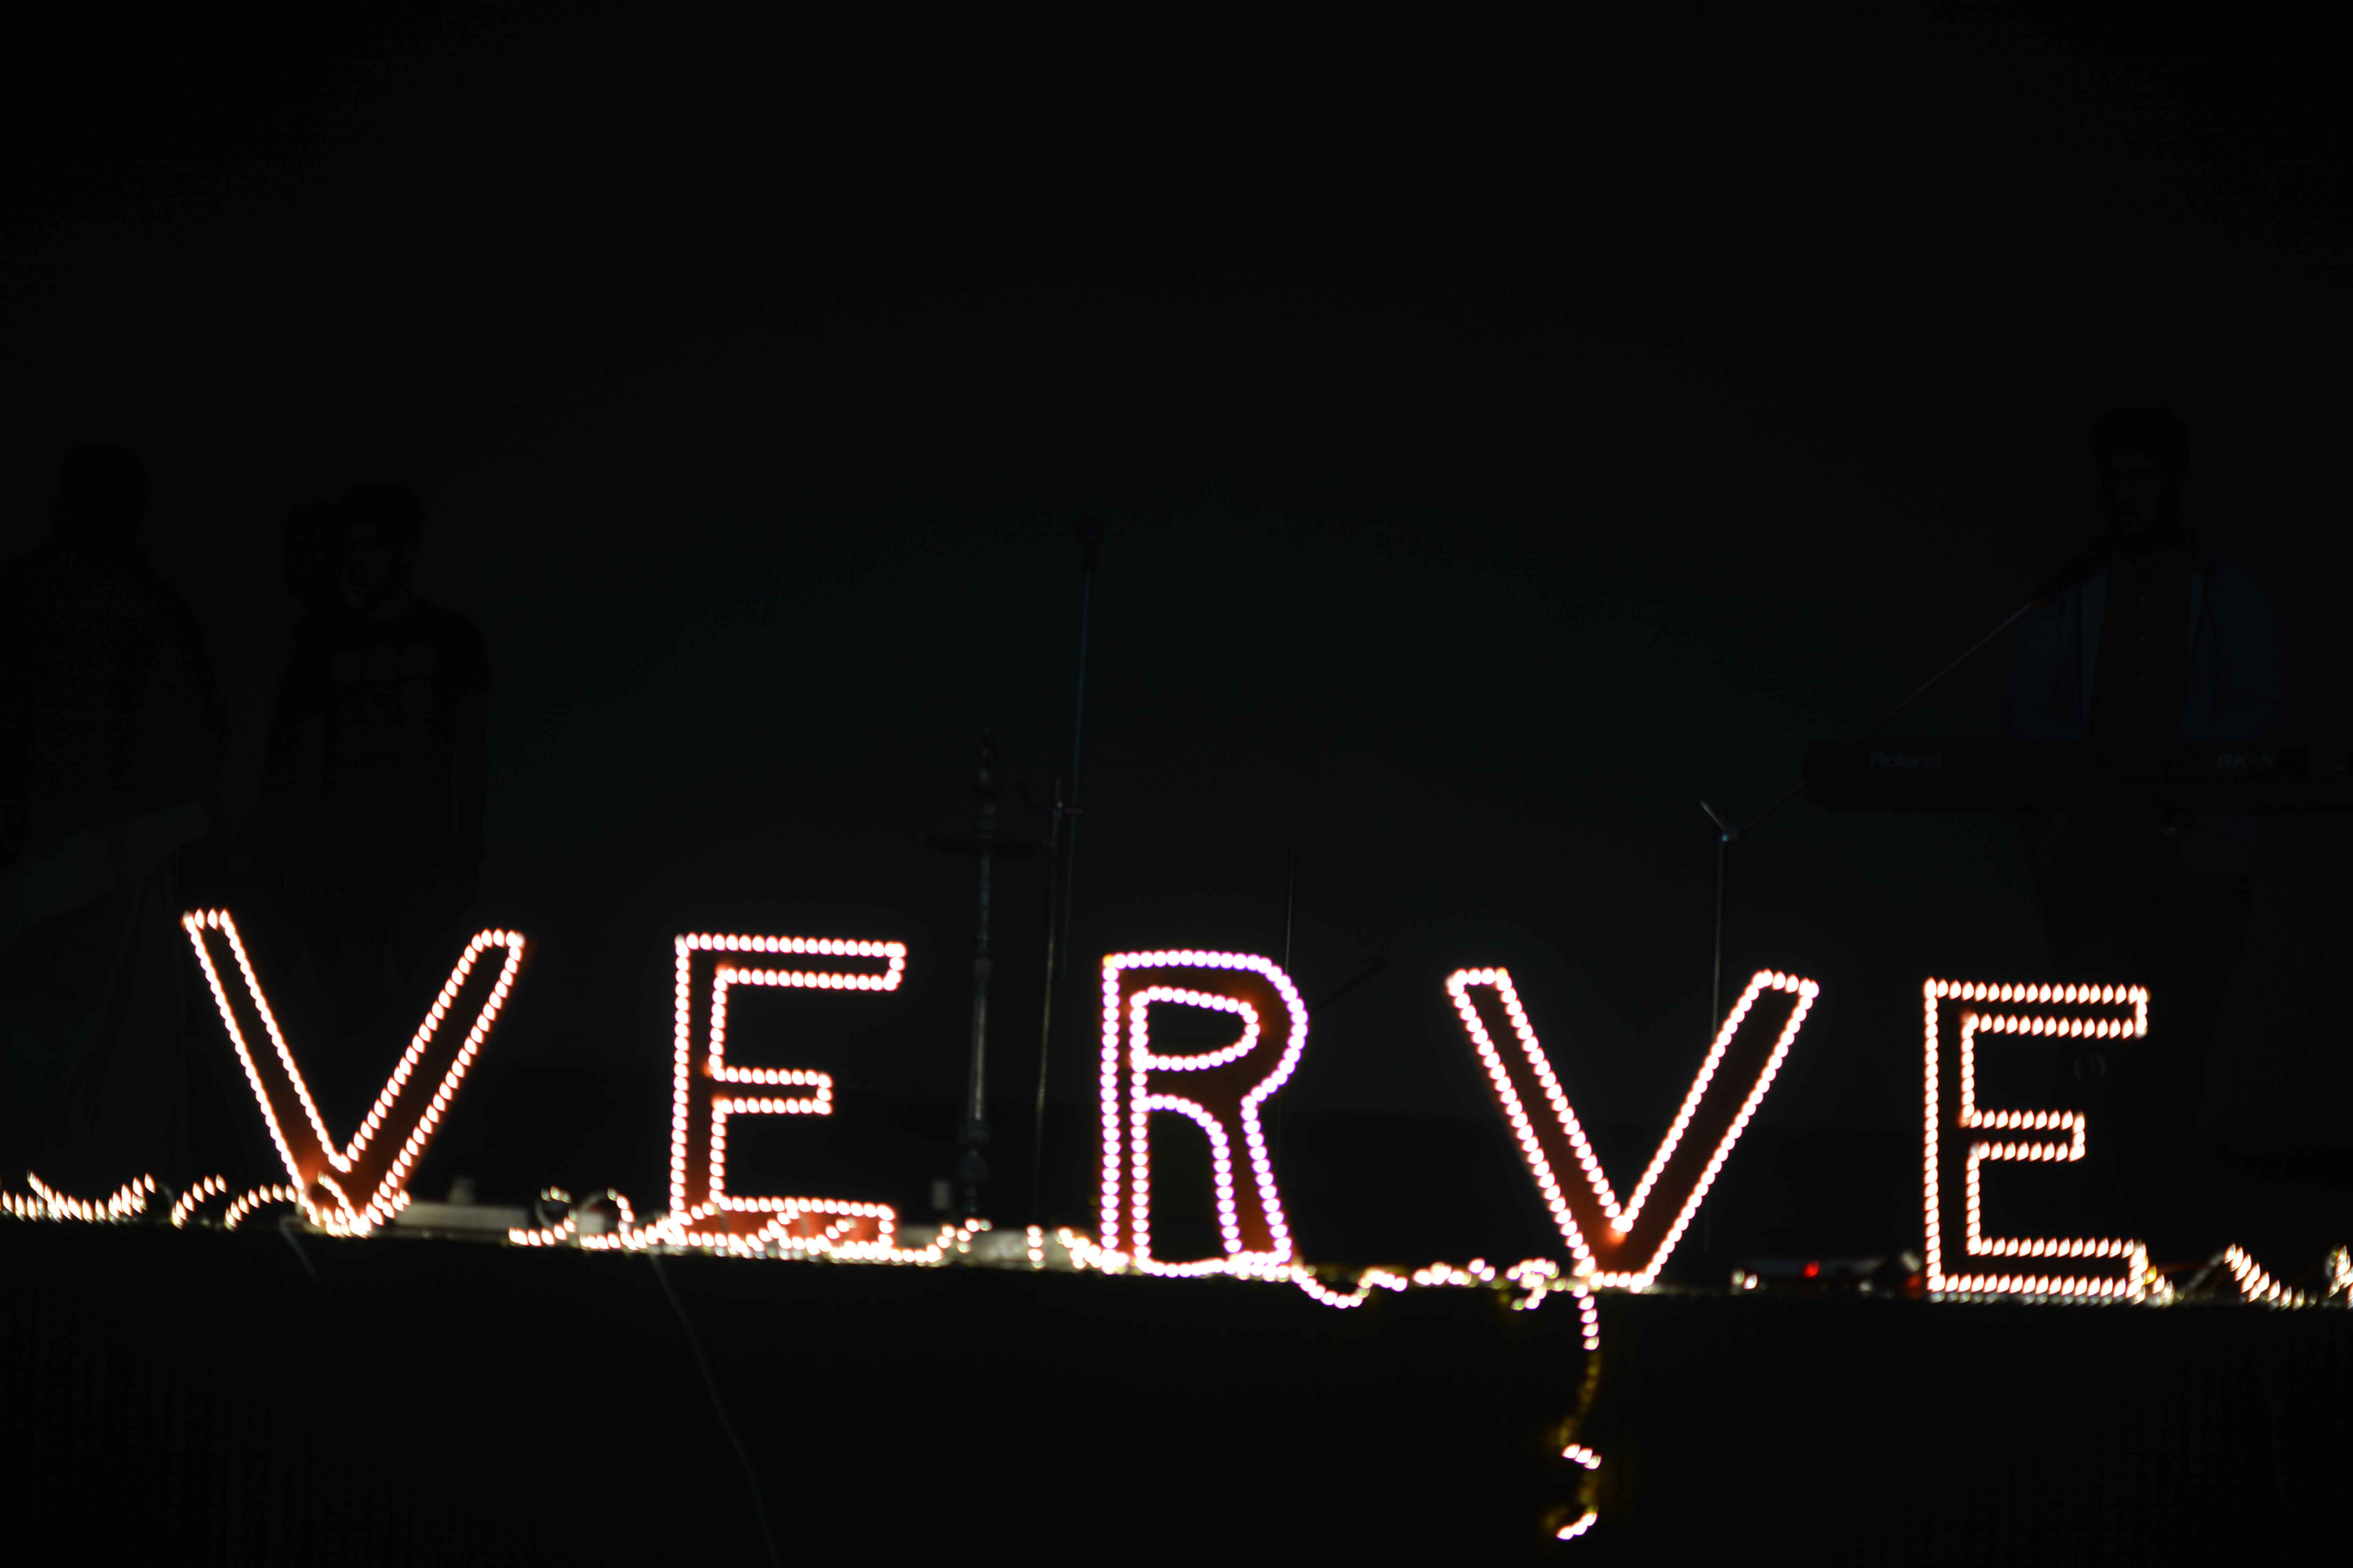
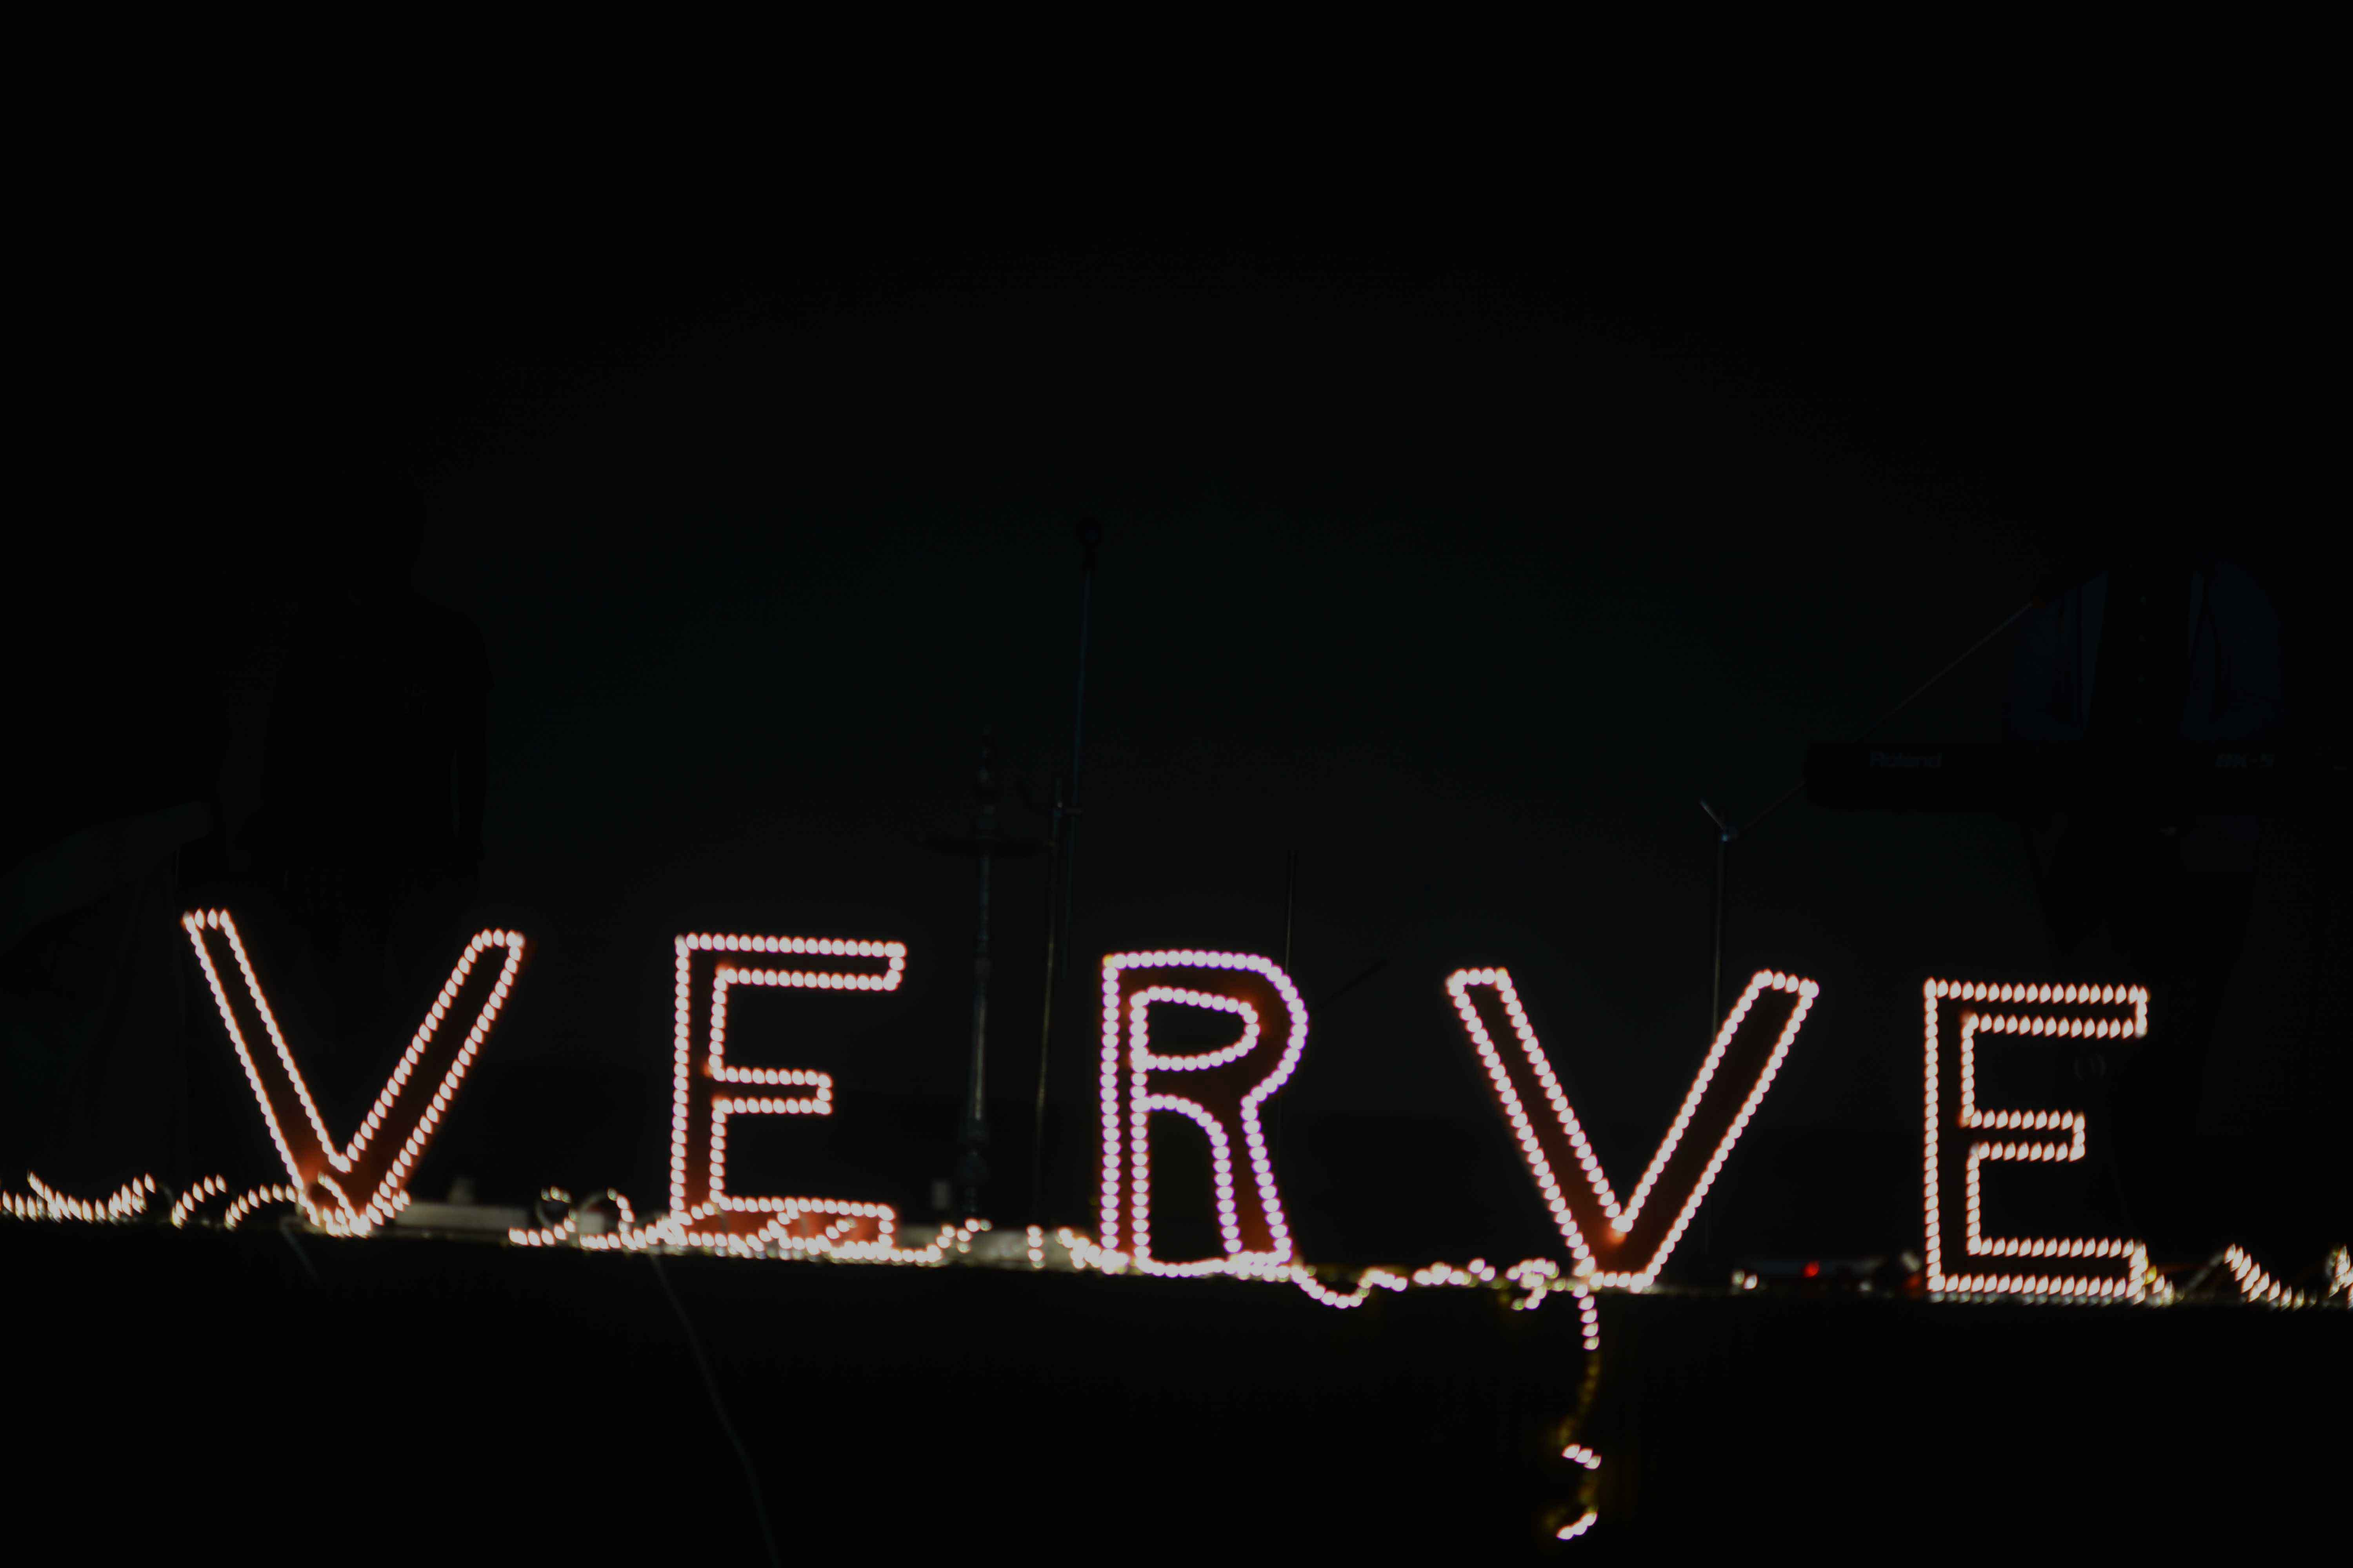
Changes to pics made

diff --git a/vervelandingpage/comingsoon_09/css/main.css b/vervelandingpage/comingsoon_09/css/main.css
@@ -1,9 +1,9 @@
 /*------------------------------------------------------------------
 Project:  ComingSoon
-Version:  
-Last change:  
+Version:
+Last change:
 Assigned to:  Bach Le
-Primary use:  
+Primary use:
 -------------------------------------------------------------------*/
 
 
@@ -13,22 +13,22 @@ Primary use:
 
 @font-face {
   font-family: Poppins-Regular;
-  src: url('../fonts/Poppins/Poppins-Regular.ttf'); 
+  src: url('../fonts/Poppins/Poppins-Regular.ttf');
 }
 
 @font-face {
   font-family: Poppins-Bold;
-  src: url('../fonts/Poppins/Poppins-Bold.ttf'); 
+  src: url('../fonts/Poppins/Poppins-Bold.ttf');
 }
 
 @font-face {
   font-family: Poppins-Thin;
-  src: url('../fonts/Poppins/Poppins-Thin.ttf'); 
+  src: url('../fonts/Poppins/Poppins-Thin.ttf');
 }
 
 @font-face {
   font-family: Poppins-Black;
-  src: url('../fonts/Poppins/Poppins-Black.ttf'); 
+  src: url('../fonts/Poppins/Poppins-Black.ttf');
 }
 
 
@@ -171,7 +171,7 @@ Primary use:
 
 
 /*==================================================================
-   WHERE WHERE WHERE WHERE WHERE WHERE WHERE WHERE WHERE WHERE WHERE  
+   WHERE WHERE WHERE WHERE WHERE WHERE WHERE WHERE WHERE WHERE WHERE
 ==================================================================*/
 .where1 {
   align-self: flex-start;
@@ -180,7 +180,7 @@ Primary use:
 
 
 /*==================================================================
- HOW HOW HOW HOW HOW HOW HOW HOW HOW HOW HOW HOW HOW HOW HOW HOW HOW 
+ HOW HOW HOW HOW HOW HOW HOW HOW HOW HOW HOW HOW HOW HOW HOW HOW HOW
 ==================================================================*/
 .placeholder0::-webkit-input-placeholder { color: #999999;}
 .placeholder0:-moz-placeholder { color: #999999;}
@@ -207,7 +207,7 @@ Primary use:
   background: -o-linear-gradient(bottom, #b224ef, #7579ff);
   background: -moz-linear-gradient(bottom, #b224ef, #7579ff);
   background: linear-gradient(bottom, #b224ef, #7579ff);
-  opacity: 0.3;
+  opacity: 0.1;
 }
 
 .overlay1::after {
@@ -391,7 +391,7 @@ Primary use:
   .respon1 {
     font-size: 45px;
   }
-  
+
 }
 
 

diff --git a/vervelandingpage/comingsoon_09/index.html b/vervelandingpage/comingsoon_09/index.html
@@ -25,7 +25,7 @@
 	<div class="simpleslide100">
 		<div class="simpleslide100-item bg-img1" style="background-image: url('images/bg1.jpg');"></div>
 		<div class="simpleslide100-item bg-img1" style="background-image: url('images/bg2.jpg');"></div>
-		<div class="simpleslide100-item bg-img1" style="background-image: url('images/bg4.jpg');"></div>
+		<div class="simpleslide100-item bg-img1" style="background-image: url('images/bg5.jpg');"></div>
 	</div>
 
 	<div class="flex-col-c-sb size1 overlay1">
